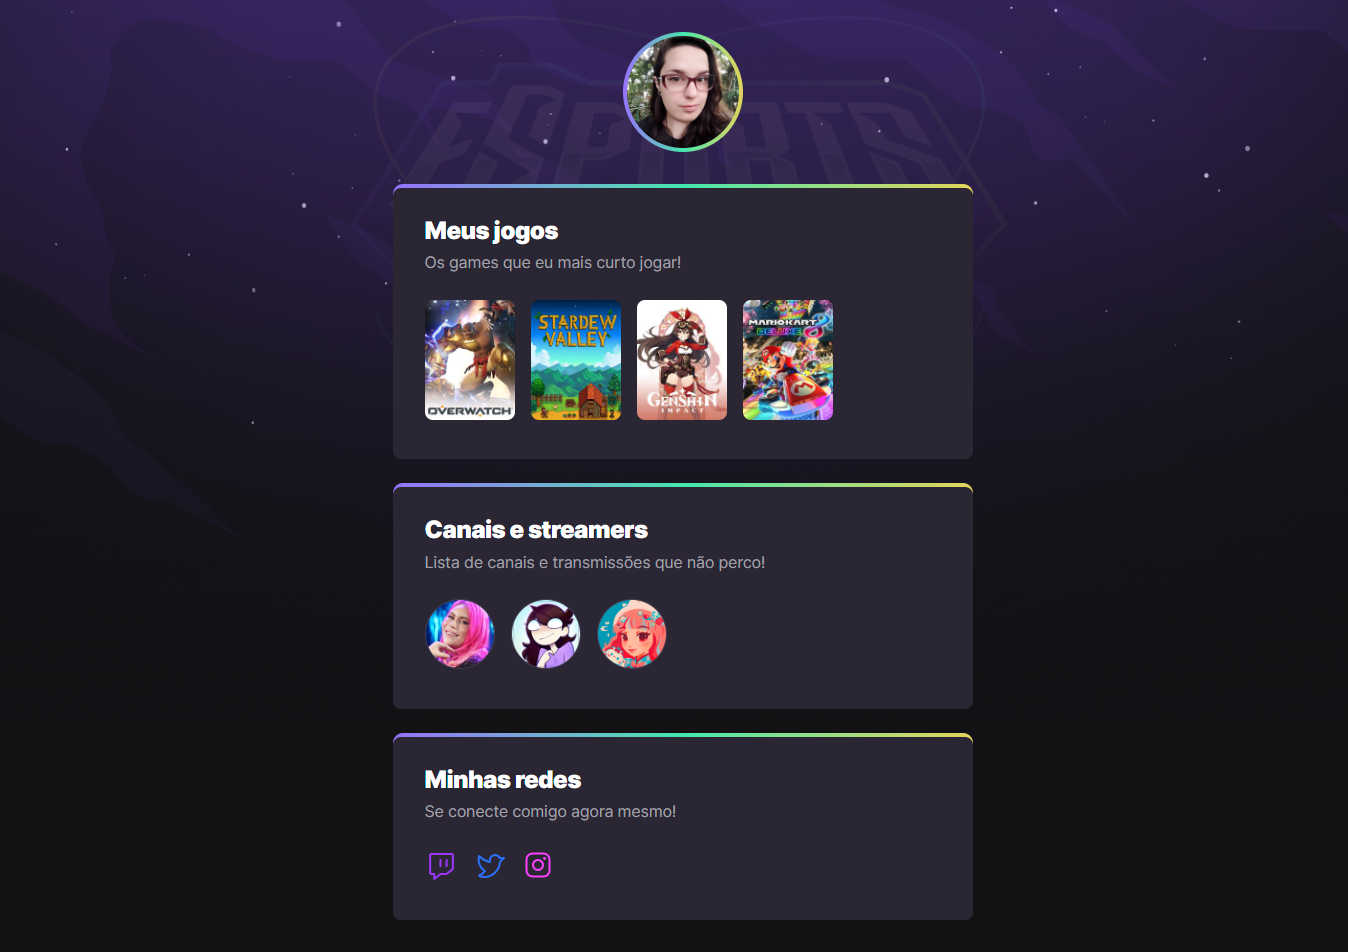
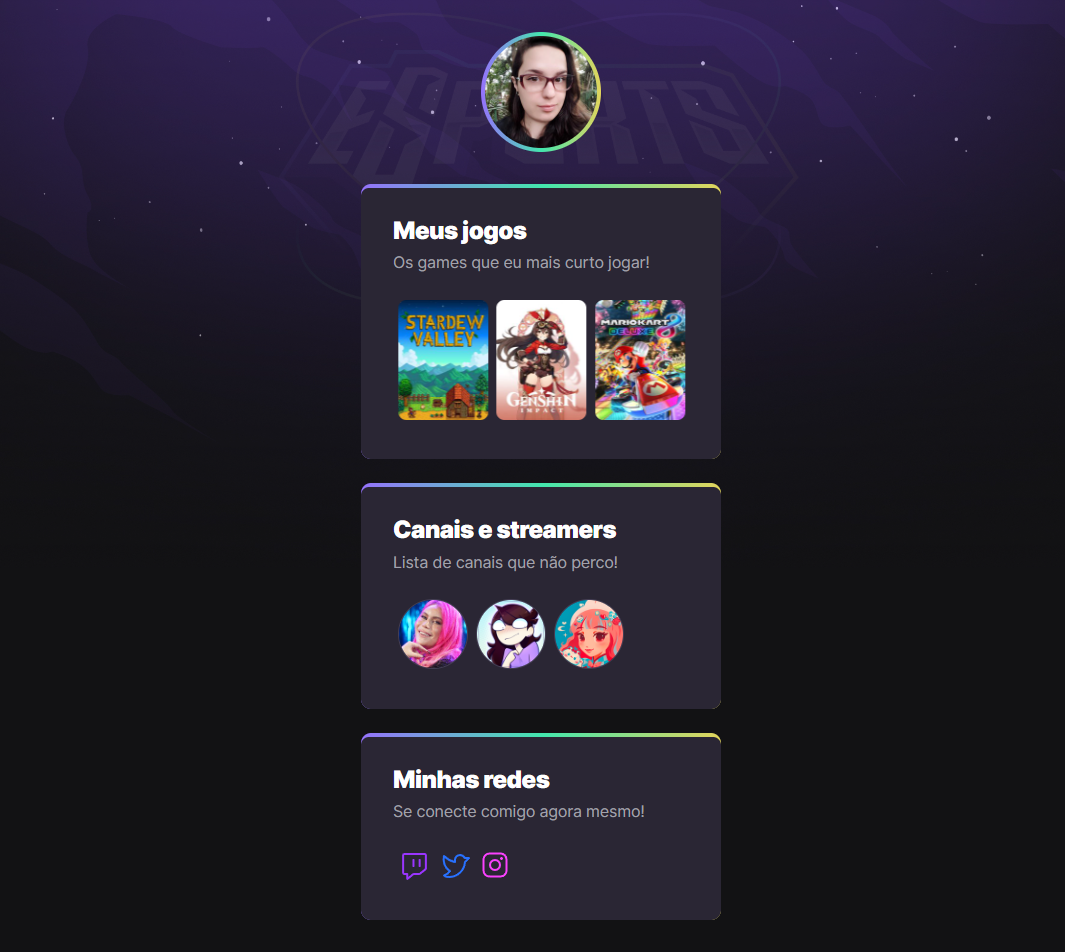
Add swiper + change size

diff --git a/index.html b/index.html
@@ -12,6 +12,12 @@
 
         <link rel="stylesheet" href="./styles.css">
 
+        <!-- Link Swiper's CSS -->
+        <link
+            rel="stylesheet"
+            href="https://cdn.jsdelivr.net/npm/swiper/swiper-bundle.min.css"
+        />
+
     </head>
     <body>
         <header>
@@ -29,8 +35,10 @@
                     <h2>Meus jogos</h2>
                     <p>Os games que eu mais curto jogar!</p>
 
-                    <ul class="games-list">
-                        <li>
+                    <div class="swiper mySwiper">
+
+                        <ul class="games-list swiper-wrapper">
+                        <li class="swiper-slide">
                             <a 
                             target="_blank"
                             href="https://www.twitch.tv/directory/game/Overwatch">
@@ -38,7 +46,7 @@
                             </a>
                         </li>
 
-                        <li>
+                        <li class="swiper-slide">
                             <a 
                             target="_blank"
                             href="https://www.twitch.tv/directory/game/Stardew%20Valley">
@@ -46,7 +54,7 @@
                             </a>
                         </li>
 
-                        <li>
+                        <li class="swiper-slide">
                             <a 
                             target="_blank"
                             href="https://www.twitch.tv/directory/game/Genshin%20Impact">
@@ -54,21 +62,24 @@
                             </a>
                         </li>
 
-                        <li>
+                        <li class="swiper-slide">
                             <a 
                             target="_blank"
                             href="https://www.twitch.tv/directory/game/Mario%20Kart%208%20Deluxe">
                             <img src="https://static-cdn.jtvnw.net/ttv-boxart/941530474_IGDB-188x250.jpg" alt="Imagem do jogo Genshin Impact">
                             </a>
                         </li>
-                    </ul>
+                        </ul>
+
+                    </div>
+
                 </div>
             </section>
 
             <section>
                 <div>
                     <h2>Canais e streamers</h2>
-                    <p>Lista de canais e transmissões que não perco!</p>
+                    <p>Lista de canais que não perco!</p>
 
                     <ul class="channel-list">
                         <li>
@@ -143,5 +154,16 @@
 
         </main>
 
+    <!-- Swiper JS -->
+        <script src="https://cdn.jsdelivr.net/npm/swiper/swiper-bundle.min.js"></script>
+
+
+        <!-- Initialize Swiper -->
+        <script>
+            new Swiper(".mySwiper", {
+                slidesPerView: 3,
+                loop: false
+            });
+        </script>
     </body>
 </html>

diff --git a/styles.css b/styles.css
@@ -48,13 +48,12 @@ header div img {
 }
 
 main {
-    max-width: 580px;
+    max-width: 360px;
     width: 90%;
     margin: 32px auto;
 
     display: grid;
     gap: 24px;
-
 }
 
 section {
@@ -103,8 +102,13 @@ section ul li:hover {
 
 .channel-list img {
     width: 70px;
+    margin-right: 8px;
     border-radius: 50%;
     border: 1px solid #443E54;
+}
+
+.social-list svg {
+    margin-right: 8px;
 }
 
 /* animation */
@@ -151,4 +155,14 @@ main section:nth-child(3) {
         opacity: 1;
         transform: translateY(0);
     }
+}
+
+/* swiper */
+section { 
+    overflow: hidden;
+}
+section ul {
+    flex-wrap: nowrap;
+    margin-left: 5px;
+    gap: 0;
 }
